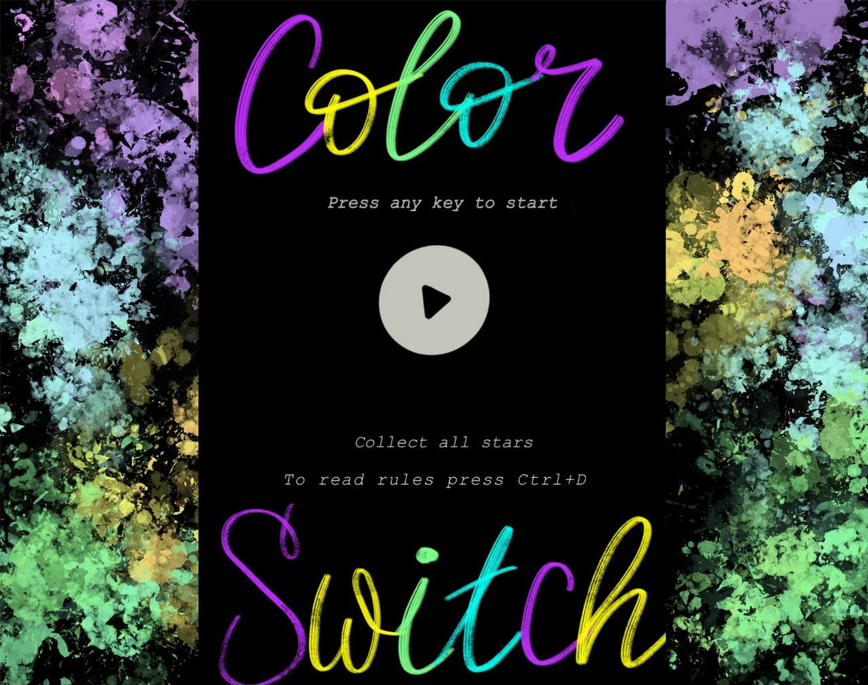
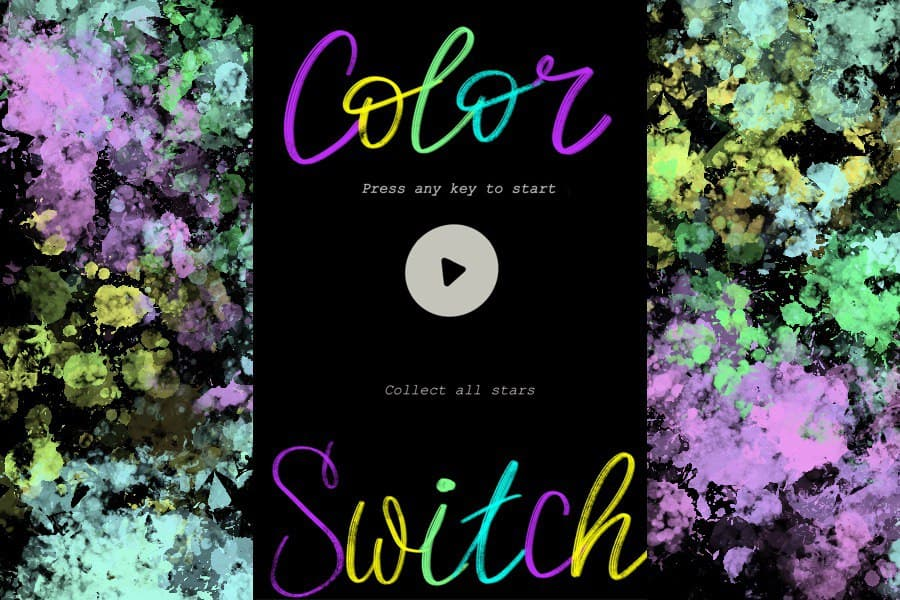
levels

diff --git a/color_switch.py b/color_switch.py
@@ -3,7 +3,7 @@ import os
 import sys
 import random
 
-size = width, height = 900, 540
+size = width, height = 900, 600
 pygame.init()
 pygame.display.set_caption("CoLoR SwItCh")
 
@@ -47,7 +47,7 @@ def Start_screen():
 
 
 def rules():
-    size = width, height = 697, 594
+    size = width, height = 900, 600
     screen = pygame.display.set_mode(size)
     background = load_image("rules.png")
     screen.blit(background, (0, 0))
@@ -57,18 +57,13 @@ def rules():
             if event.type == pygame.QUIT:
                 terminate()
             elif event.type == pygame.KEYDOWN:
-<<<<<<< HEAD
                 if event.key == pygame.K_ESCAPE:
                     return
-=======
-                to_game()
-                break
->>>>>>> f84c6db755d8e0e9f672563f398db545947c741c
         pygame.display.flip()
 
 
 def completed_screen():
-    background = load_image("comp.png")
+    background = load_image("completed.png")
     screen.blit(background, (0, 0))
 
     while True:
@@ -81,7 +76,7 @@ def completed_screen():
 
 
 def congratulation_screen():
-    background = load_image('congrat.jpg')
+    background = load_image('congratulations.png')
     screen.blit(background, (0, 0))
 
     while True:
@@ -104,7 +99,7 @@ def load_level(name):
     return level_map
 
 
-def draw_level(level_map, a):
+def draw_level(level_map, a, s):
     for y in range(len(level_map)):
         for x in range(len(level_map[y])):
             if level_map[y][x] == "#":
@@ -117,7 +112,7 @@ def draw_level(level_map, a):
                 square = Sqw(x, y, a)
                 screen.blit(square.squ_rot, square.squ_rot_rect)
             elif level_map[y][x] == "$":
-                circle2 = Circle2(x, y, a)
+                circle2 = Circle2(x, y, s)
                 screen.blit(circle2.c2_rot, circle2.c2_rot_rect)
             elif level_map[y][x] == "!":
                 cross = Cross(x, y, a)
@@ -156,7 +151,7 @@ class Change_color(pygame.sprite.Sprite):
         self.image = load_image("change.png")
         self.img = pygame.transform.scale(self.image, (self.image.get_width() * 0.75, self.image.get_height() * 0.75))
         self.rot = pygame.transform.rotate(self.img, a)
-        self.rot_rect = self.rot.get_rect(centerx=x * 30, centery=y * 30 + 10)
+        self.rot_rect = self.rot.get_rect(centerx=x * 30 + 15, centery=y * 30 + 15)
 
 
 class Circle(pygame.sprite.Sprite):
@@ -164,7 +159,7 @@ class Circle(pygame.sprite.Sprite):
         pygame.sprite.Sprite.__init__(self)
         self.crcl = load_image("circle1.png")
         self.crcl_rot = pygame.transform.rotate(self.crcl, a)
-        self.crcl_rot_rect = self.crcl_rot.get_rect(centerx=x * 30, centery=y * 30)
+        self.crcl_rot_rect = self.crcl_rot.get_rect(centerx=x * 30 + 15, centery=y * 30 + 15)
 
 
 class Sqw(pygame.sprite.Sprite):
@@ -173,7 +168,7 @@ class Sqw(pygame.sprite.Sprite):
         self.squ = load_image("sqw.png")
         self.img = pygame.transform.scale(self.squ, (self.squ.get_width() // 2.5, self.squ.get_height() // 2.5))
         self.squ_rot = pygame.transform.rotate(self.img, a)
-        self.squ_rot_rect = self.squ_rot.get_rect(centerx=x * 30, centery=y * 30)
+        self.squ_rot_rect = self.squ_rot.get_rect(centerx=x * 30 + 15, centery=y * 30 - 15)
 
 
 class Circle2(pygame.sprite.Sprite):
@@ -182,7 +177,7 @@ class Circle2(pygame.sprite.Sprite):
         self.circ2 = load_image("circle2.png")
         self.img = pygame.transform.scale(self.circ2, (self.circ2.get_width() // 1.5, self.circ2.get_height() // 1.5))
         self.c2_rot = pygame.transform.rotate(self.img, a)
-        self.c2_rot_rect = self.c2_rot.get_rect(centerx=x * 30, centery=y * 30)
+        self.c2_rot_rect = self.c2_rot.get_rect(centerx=x * 30 + 15, centery=y * 30 - 15)
 
 
 class Cross(pygame.sprite.Sprite):
@@ -191,7 +186,7 @@ class Cross(pygame.sprite.Sprite):
         self.cross = load_image("cross.png")
         self.img = pygame.transform.scale(self.cross, (self.cross.get_width() // 2, self.cross.get_height() // 2))
         self.cr_rot = pygame.transform.rotate(self.img, a)
-        self.cr_rot_rect = self.cr_rot.get_rect(centerx=x * 23, centery=y * 30)
+        self.cr_rot_rect = self.cr_rot.get_rect(centerx=x * 30 - 40, centery=y * 30 + 15)
 
 
 class Star(pygame.sprite.Sprite):
@@ -200,7 +195,7 @@ class Star(pygame.sprite.Sprite):
         self.star = load_image("star.png")
         self.img = pygame.transform.scale(self.star, (self.star.get_width() // 5, self.star.get_height() // 5))
         self.st_rot = pygame.transform.rotate(self.img, a)
-        self.st_rot_rect = self.st_rot.get_rect(centerx=x * 30, centery=y * 30)
+        self.st_rot_rect = self.st_rot.get_rect(centerx=x * 30 + 15, centery=y * 30 - 15)
 
 
 class Start_Finish(pygame.sprite.Sprite):
@@ -210,42 +205,57 @@ class Start_Finish(pygame.sprite.Sprite):
         self.sf_r = self.sf.get_rect(center=(x * 225, y))
 
 
-def game(name):
-    board = Board(30, 18)
+def game(name, i):
+    board = Board(30, 20)
     board.set_view(0, 0, 30)
-    size = width, height = 900, 540
+    size = width, height = 900, 600
     screen = pygame.display.set_mode(size)
     colors = [(195, 45, 255), (124, 255, 137), (0, 255, 242), (255, 255, 0)]
     a = 20
+    s = 20
     f = 0
     e = 0
     z = 0
     m = True
-    start = Start_Finish(0.88, 525)
-    finish = Start_Finish(3.12, 15)
+    start = Start_Finish(0.88, 495)
+    finish = Start_Finish(3.12, 100)
     running = True
     flag = False
-    y = 525
+    y = 535
     part = 1
+    lvl = "_-_-LeVeL " + f'{i} -_-_'
+    lvl_font = pygame.font.SysFont('couriernew', 40)
+    lvl_font.set_bold(True)
+    lvl_start = lvl_font.render(lvl, True, (255, 255, 255))
+    lvl_finish = lvl_font.render(lvl, True, (255, 255, 255))
     while running:
         screen.fill((0, 0, 0))
         board.render(screen)
-        pygame.draw.rect(screen, (200, 200, 87), (449, 0, 2, 540))
-        draw_level(load_level(name), a)
-
+        pygame.draw.rect(screen, (255, 255, 255), (449, 0, 2, 600))
+        draw_level(load_level(name), a, s)
+        screen.blit(lvl_start, (0, 555))
+        screen.blit(lvl_finish, (450, 0))
         screen.blit(start.sf, start.sf_r)
         screen.blit(finish.sf, finish.sf_r)
         a += 3
+        s += 5
+        if f == 0:
+            e = colors[random.randint(0, 3)]
+            f += 1
+        if f == 1:
+            z = colors[random.randint(0, 3)]
+            f += 1
         if m:
             if part == 2:
-                pygame.draw.circle(screen, 'white', (675, y), 15)
+                if y <= 540:
+                    pygame.draw.circle(screen, e, (675, y), 15)
+                else:
+                    pygame.draw.circle(screen, z, (675, y), 15)
             else:
-                pygame.draw.circle(screen, 'white', (225, y), 15)
-        s = 0
-        if s == 3:
-            s -= 3
-        else:
-            s += 1
+                if y <= 450:
+                    pygame.draw.circle(screen, z, (225, y), 15)
+                else:
+                    pygame.draw.circle(screen, (255, 255, 255), (225, y), 15)
         for event in pygame.event.get():
             if event.type == pygame.QUIT:
                 terminate()
@@ -254,26 +264,28 @@ def game(name):
                     y -= 25
                 flag = True
         if flag:
+            if part == 2 and y < 85:
+                y -= 10
+                y += 5
             y += 3
-        if f == 0:
-            e = colors[random.randint(0, 3)]
-            f += 1
-        if f == 1:
-            z = colors[random.randint(0, 3)]
-            f += 1
+
         if y < 0:
             if part == 1:
                 part = 2
-                y += 540
+                y += 600
             else:
                 return
+        if y > 600:
+            if part == 2:
+                part = 1
+                y = 0
         pygame.display.flip()
         clock.tick(fps)
 
 
 def to_game():
-    for i in range(1, levels + 1):
-        game(f'level{i}.txt')
+    for i in range(7, levels + 1):
+        game(f'level{i}.txt', i)
         if i < levels:
             completed_screen()
         else:
